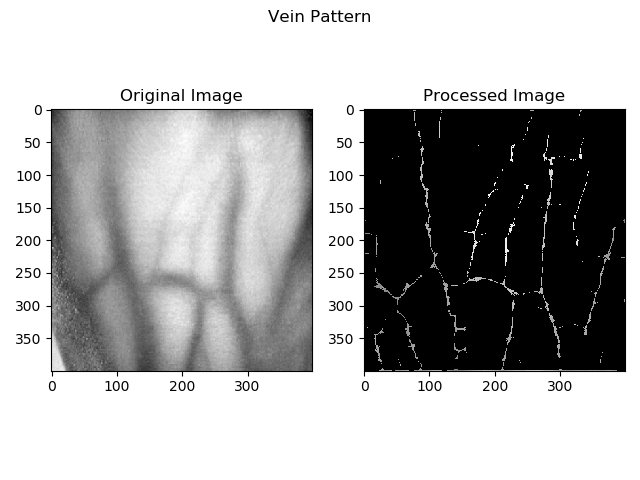
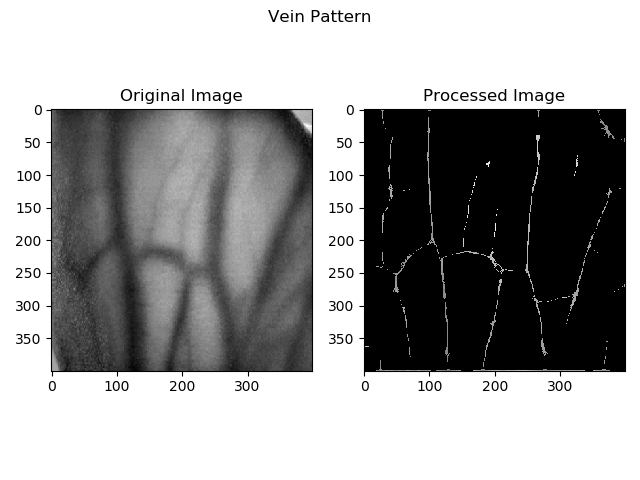
update parameters

diff --git a/PreProcessing_FeatureExtraction/extract_feature.py b/PreProcessing_FeatureExtraction/extract_feature.py
@@ -1,12 +1,10 @@
 import numpy as np
-
-from label import binaries
-from detect_vein_center_assign_score import compute_vein_score
-from profile_curvature import compute_curvature
 from connect_center import connect_centres
-from scipy.signal import convolve2d
-from preprocessing import remove_hair
+from detect_vein_center_assign_score import compute_vein_score
+from label import binaries
 from normalize import normalize_data
+from preprocessing import remove_hair
+from profile_curvature import compute_curvature
 
 """
 	In this method, the local maximum curvature is calculated in the cross-sectional 
@@ -73,14 +71,14 @@ def vein_pattern(image, kernel_size, sigma):
 	vein_pattern = np.multiply(image, threshold, dtype=float)
 
 	return vein_pattern
-"""
+
 # test
 import cv2
 import matplotlib.pyplot as plt
 
-image_path = '../sample dataset/input/s1/2017232_R_0.jpg'
+image_path = '../sample dataset/input/s1/2017232_R_5.jpg'
 image = cv2.imread(image_path, 0)
-processed_image = vein_pattern(image, 3, 6)
+processed_image = vein_pattern(image, 6, 8)
 
 plt.subplot(1,2,1)
 plt.imshow(image, cmap='gray')
@@ -95,4 +93,3 @@ plt.tight_layout()
 plt.savefig("vein_pattern_extracted.png")
 plt.show()
 
-"""

diff --git a/PreProcessing_FeatureExtraction/connect_center.py b/PreProcessing_FeatureExtraction/connect_center.py
@@ -1,9 +1,4 @@
 import numpy
-import cv2
-import matplotlib.pyplot as plt
-from preprocessing import remove_hair
-from profile_curvature import compute_curvature
-from detect_vein_center_assign_score import compute_vein_score
 
 
 def connect_profile_1d(vein_prob_1d):
@@ -46,11 +41,11 @@ def connect_centres(vein_score):
 	vein_score = temp
 	# Horizontal direction
 	for index in range(vein_score.shape[0]):
-		connected_center[index, 2:-2, 0] = 2 * connect_profile_1d(vein_score[index, :])
+		connected_center[index, 2:-2, 0] = connect_profile_1d(vein_score[index, :])
 
 	# Vertical direction
 	for index in range(vein_score.shape[1]):
-		connected_center[2:-2, index, 1] = 2 * connect_profile_1d(vein_score[:, index])
+		connected_center[2:-2, index, 1] = connect_profile_1d(vein_score[:, index])
 
 	#print(vein_score.shape)
 	# Direction: 45 degrees (\)

diff --git a/PreProcessing_FeatureExtraction/detect_vein_center_assign_score.py b/PreProcessing_FeatureExtraction/detect_vein_center_assign_score.py
@@ -1,8 +1,4 @@
 import numpy
-import cv2
-import matplotlib.pyplot as plt
-from preprocessing import remove_hair
-from profile_curvature import compute_curvature
 
 
 # calculating probabilistic score on 1-D array.
@@ -66,7 +62,7 @@ def compute_vein_score(k):
 
 	# we have to return this variable correctly.
 	score = numpy.zeros(k.shape, dtype='float64')
-	#print(score.shape)
+	# print(score.shape)
 	# Horizontal direction
 	for index in range(k.shape[0]):
 		score[index, :, 0] += profile_score_1d(k[index, :, 0])
@@ -86,7 +82,7 @@ def compute_vein_score(k):
 	Vud = numpy.flipud(score)  # match above inversion
 	for index in reversed(range(curve.shape[1] - 1, -curve.shape[0], -1)):
 		Vud[i == (j - index), 3] += profile_score_1d(curve.diagonal(index))
-	#print("Vud shape", Vud.shape)
+	# print("Vud shape", Vud.shape)
 	return score
 
 

diff --git a/PreProcessing_FeatureExtraction/profile_curvature.py b/PreProcessing_FeatureExtraction/profile_curvature.py
@@ -1,9 +1,7 @@
+import math
+
 import numpy as np
 import scipy.ndimage as Image
-import math
-import matplotlib.pyplot as plt
-from preprocessing import remove_hair
-import cv2
 
 
 def compute_curvature(image, sigma):
@@ -50,9 +48,9 @@ def compute_curvature(image, sigma):
 
 	# 3. calculates derivatives w.r.t. to all directions
 
-	image_g1_0 = 0.01 * Image.convolve(image, G1_0, mode='nearest')
+	image_g1_0 = 0.1 * Image.convolve(image, G1_0, mode='nearest')
 	image_g2_0 = 10 * Image.convolve(image, G2_0, mode='nearest')
-	image_g1_90 = 0.01 * Image.convolve(image, G1_90, mode='nearest')
+	image_g1_90 = 0.1 * Image.convolve(image, G1_90, mode='nearest')
 	image_g2_90 = 10 * Image.convolve(image, G2_90, mode='nearest')
 	fxy = Image.convolve(image, hxy, mode='nearest')
 	image_g1_45 = 0.5 * np.sqrt(2) * (image_g1_0 + image_g1_90)
